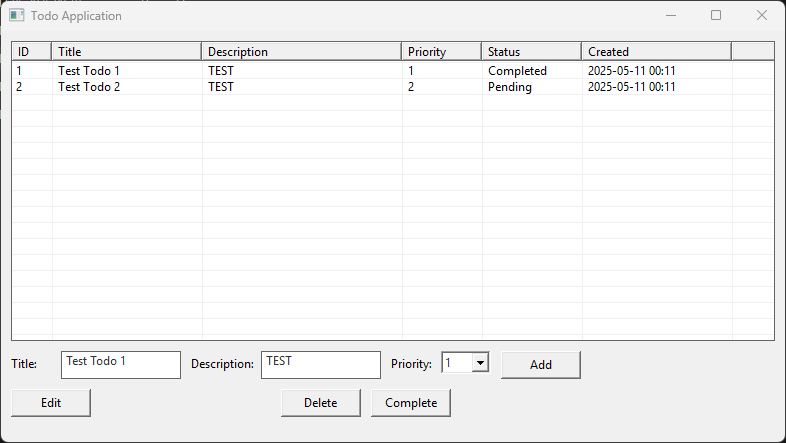
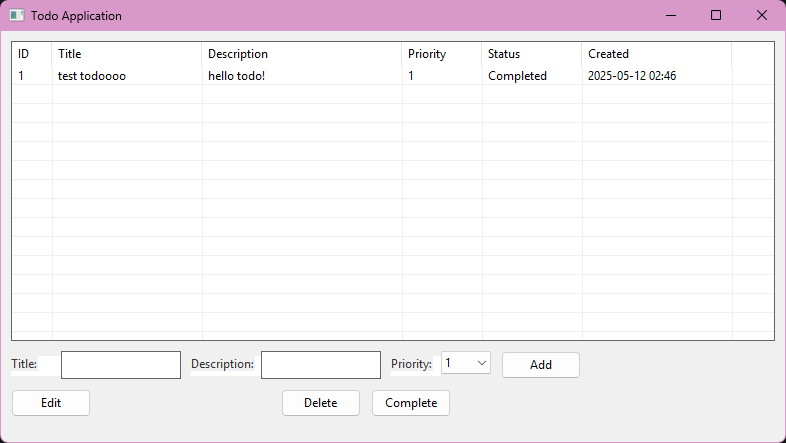
feat: Add manifest and optimize executable size
- Add Windows application manifest for modern UI and DPI awareness
  - Enable Common Controls v6 for modern visual styles
  - Add proper DPI awareness settings
  - Set application version to 0.3.0.0

- Optimize executable size (114KB → 26.5KB)
  - Add UPX compression to build process
  - Add GCC optimization flags (-Os -s)
  - Update build.bat for local UPX support
  - Add UPX compression to GitHub Actions workflow

diff --git a/README.md b/README.md
@@ -2,6 +2,7 @@
 ![Platform](https://img.shields.io/badge/platform-windows-blue)
 ![Language](https://img.shields.io/badge/language-C-brightgreen)
 ![License](https://img.shields.io/badge/license-MIT-yellow)
+![Size](https://img.shields.io/badge/size-26.5%20KB-brightgreen)
 
 
 A modern, native Windows Todo application built with C and Win32 API. This project demonstrates advanced Windows GUI programming and system integration capabilities.
@@ -22,6 +23,8 @@ A modern, native Windows Todo application built with C and Win32 API. This proje
 - Written in pure C
 - Uses Win32 API for GUI
 - System tray integration
+- Tiny executable size (26.5 KB after UPX compression)
+- Modern Windows visual styles with manifest
 
 ## 💾 Data Storage
 
